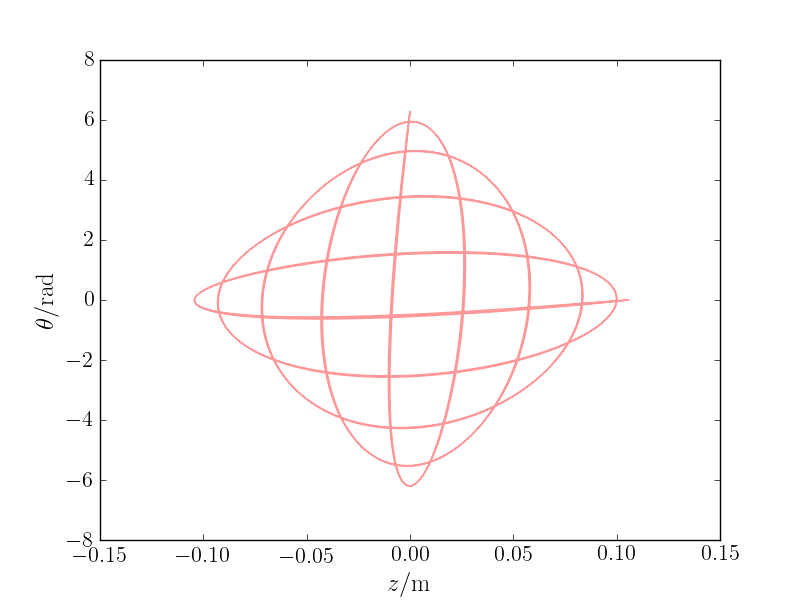
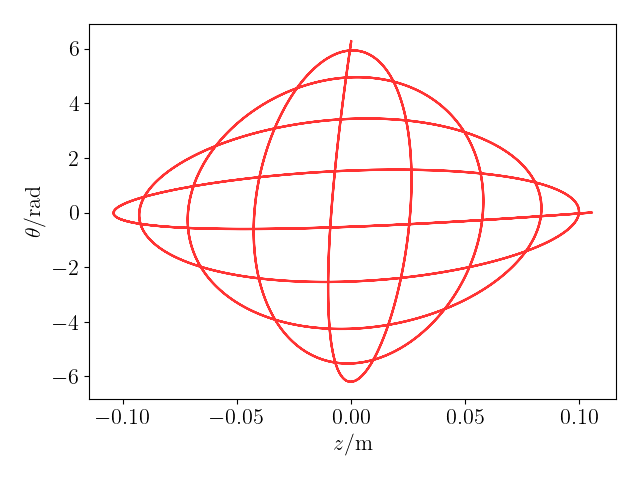
Update Wilberforce pendulum script to use solve_ivp

Changed region(s): [[0.0312, 0.0625, 0.9375, 0.9375], [0.4688, 0.9688, 0.5312, 1.0]]

diff --git a/wilberforce_pendulum/wilberforce.py b/wilberforce_pendulum/wilberforce.py
@@ -1,5 +1,5 @@
 import numpy as np
-from scipy.integrate import odeint
+from scipy.integrate import solve_ivp
 from matplotlib import rc
 import matplotlib.pyplot as plt
 import matplotlib
@@ -8,8 +8,9 @@ import matplotlib
 # Mathematical details are available on my blog article,
 # at https://scipython.com/blog/the-wilberforce-pendulum/
 # Christian Hill, January 2016.
+# Updated (January 2020) to use solve_ivp instead of odeint.
 
-# Use LaTeX throughout the figure for consistency
+# Use LaTeX throughout the figure for consistency.
 rc('font', **{'family': 'serif', 'serif': ['Computer Modern'], 'size': 16})
 rc('text', usetex=True)
 
@@ -19,7 +20,7 @@ epsilon = 9.27e-3   # N
 m = 0.4905          # kg
 I = 1.39e-4         # kg.m2
 
-def deriv(y, t, omega, epsilon, m, I):
+def deriv(t, y, omega, epsilon, m, I):
     """Return the first derivatives of y = z, zdot, theta, thetadot."""
     z, zdot, theta, thetadot = y
     dzdt = zdot
@@ -28,42 +29,46 @@ def deriv(y, t, omega, epsilon, m, I):
     dthetadotdt = -omega**2 * theta - epsilon / 2 / I * z
     return dzdt, dzdotdt, dthetadt, dthetadotdt
 
-# The time grid in s
-t = np.linspace(0,40,50000)
 # Initial conditions: theta=2pi, z=zdot=thetadot=0
 y0 = [0, 0, 2*np.pi, 0]
 
-# Do the numerical integration of the equations of motion
-y = odeint(deriv, y0, t, args=(omega, epsilon, m, I))
+# Do the numerical integration of the equations of motion up to tmax secs.
+tmax = 40
+soln = solve_ivp(deriv, (0, tmax), y0, args=(omega, epsilon, m, I), dense_output=True)
+# The time grid in s
+t = np.linspace(0, tmax, 2000)
 # Unpack z and theta as a function of time
-z, theta = y[:,0], y[:,2]
+z, theta = soln.sol(t)[0], soln.sol(t)[2]
 
 # Plot z vs. t and theta vs. t on axes which share a time (x) axis
-fig, ax_z = plt.subplots(1,1)
+fig, ax_z = plt.subplots()
 l_z, = ax_z.plot(t, z, 'g', label=r'$z$')
 ax_z.set_xlabel('time /s')
-ax_z.set_ylabel(r'$z /\mathrm{m}$', fontsize=18)
+ax_z.set_ylabel(r'$z /\mathrm{m}$')
 ax_theta = ax_z.twinx()
 l_theta, = ax_theta.plot(t, theta, 'orange', label=r'$\theta$')
-ax_theta.set_ylabel(r'$\theta /\mathrm{rad}$', fontsize=18)
+ax_theta.set_ylabel(r'$\theta /\mathrm{rad}$')
 
 # Add a single legend for the lines of both twinned axes
 lines = (l_z, l_theta)
 labels = [line.get_label() for line in lines]
 plt.legend(lines, labels)
+plt.tight_layout()
 plt.savefig('wilberforce_z-t_plot.png')
 plt.show()
 
 # Plot theta vs. z on a cartesian plot
-fig, ax1 = plt.subplots(1,1)
-ax1.plot(z, theta, 'r', alpha=0.4)
-ax1.set_xlabel(r'$z /\mathrm{m}$', fontsize=18)
-ax1.set_ylabel(r'$\theta /\mathrm{rad}$', fontsize=18)
+fig, ax1 = plt.subplots()
+ax1.plot(z, theta, 'r', alpha=0.8)
+ax1.set_xlabel(r'$z /\mathrm{m}$')
+ax1.set_ylabel(r'$\theta /\mathrm{rad}$')
+plt.tight_layout()
 plt.savefig('wilberforce_theta-z_plot.png')
 plt.show()
 
 # Plot z vs. theta on a polar plot
-fig, ax2 = plt.subplots(1,1, subplot_kw={'projection': 'polar'})
-ax2.plot(theta, z, 'b', alpha=0.4)
+fig, ax2 = plt.subplots(subplot_kw={'projection': 'polar'})
+ax2.plot(theta, z, 'b', alpha=0.8)
+plt.tight_layout()
 plt.savefig('wilberforce_theta-z_polar_plot.png')
 plt.show()
